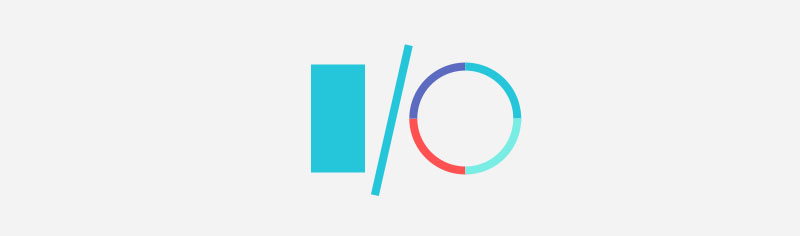
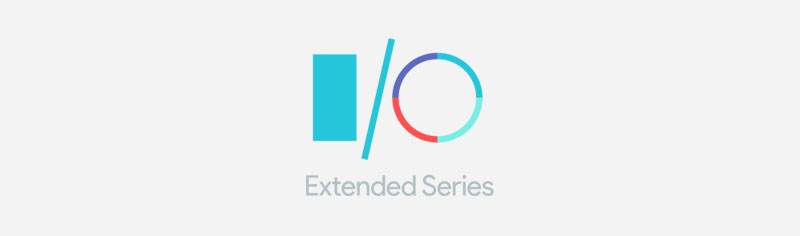
Changed io desc, slideshow photo

Changed region(s): [[0.375, 0.1483, 0.6562, 0.8305]]

diff --git a/re/views/event_info.html b/re/views/event_info.html
@@ -9,9 +9,9 @@
 	<p>Google believes diversity and inclusion is important for thriving vibrant communities. Focusing on women-inclusion is the first step in a larger effort to diversify the global Google developer community. The GDG Philippines community has shown great interest in this initiative, starting with GDG DevFest Women 2013, Women Techmakers 2014, and Women Techmakers 2015.<br><br>Women Techmakers is Google's brand and global program for women in technology. Women Techmakers provides visibility, community, and resources for women in technology to drive innovation and participation in the field. Women Techmakers events are designed to promote an environment of inclusivity for women in technology, as well as celebrate women leading the industry. We want to advance, grow, and celebrate women developers, designers, and technology entrepreneurs.</p>
 </div>
 <div class="card">
-	<h3>Google I/O 2016 Extended</h3>
+	<h3>Google I/O 2016 Series</h3>
 	<img src="images/events/io.jpg" width="100%">
-	<p>The Google I/O Extended Series is hosted by GDG Philippines and interested Local Universities. It is a series of workshops and talks which share the latest technologies on web, mobile, design, cloud, big data and machine learning. Participants will also get to learn various technologies and updates from Google I/O 2016.<br><br>The events are hosted by local university partners who share the same passion in helping professional and student developers deep dive in the new technologies. The events will have roster of speakers ranging from Community Leaders, Developer Experts, to Googlers.</p>
+	<p>The I/O Extended Series is hosted by GDG Philippines and interested Local Universities. It is a series of workshops and talks which share the latest technologies on web, mobile, design, cloud, big data and machine learning. Participants will also get to learn various technologies and updates from Google I/O 2016.<br><br>The events are hosted by local university partners who share the same passion in helping professional and student developers deep dive in the new technologies. The events will have roster of speakers ranging from Community Leaders, Developer Experts, to Googlers.</p>
 </div>
 <div class="card">
 	<h3>GDG DevFest Philippines</h3>
